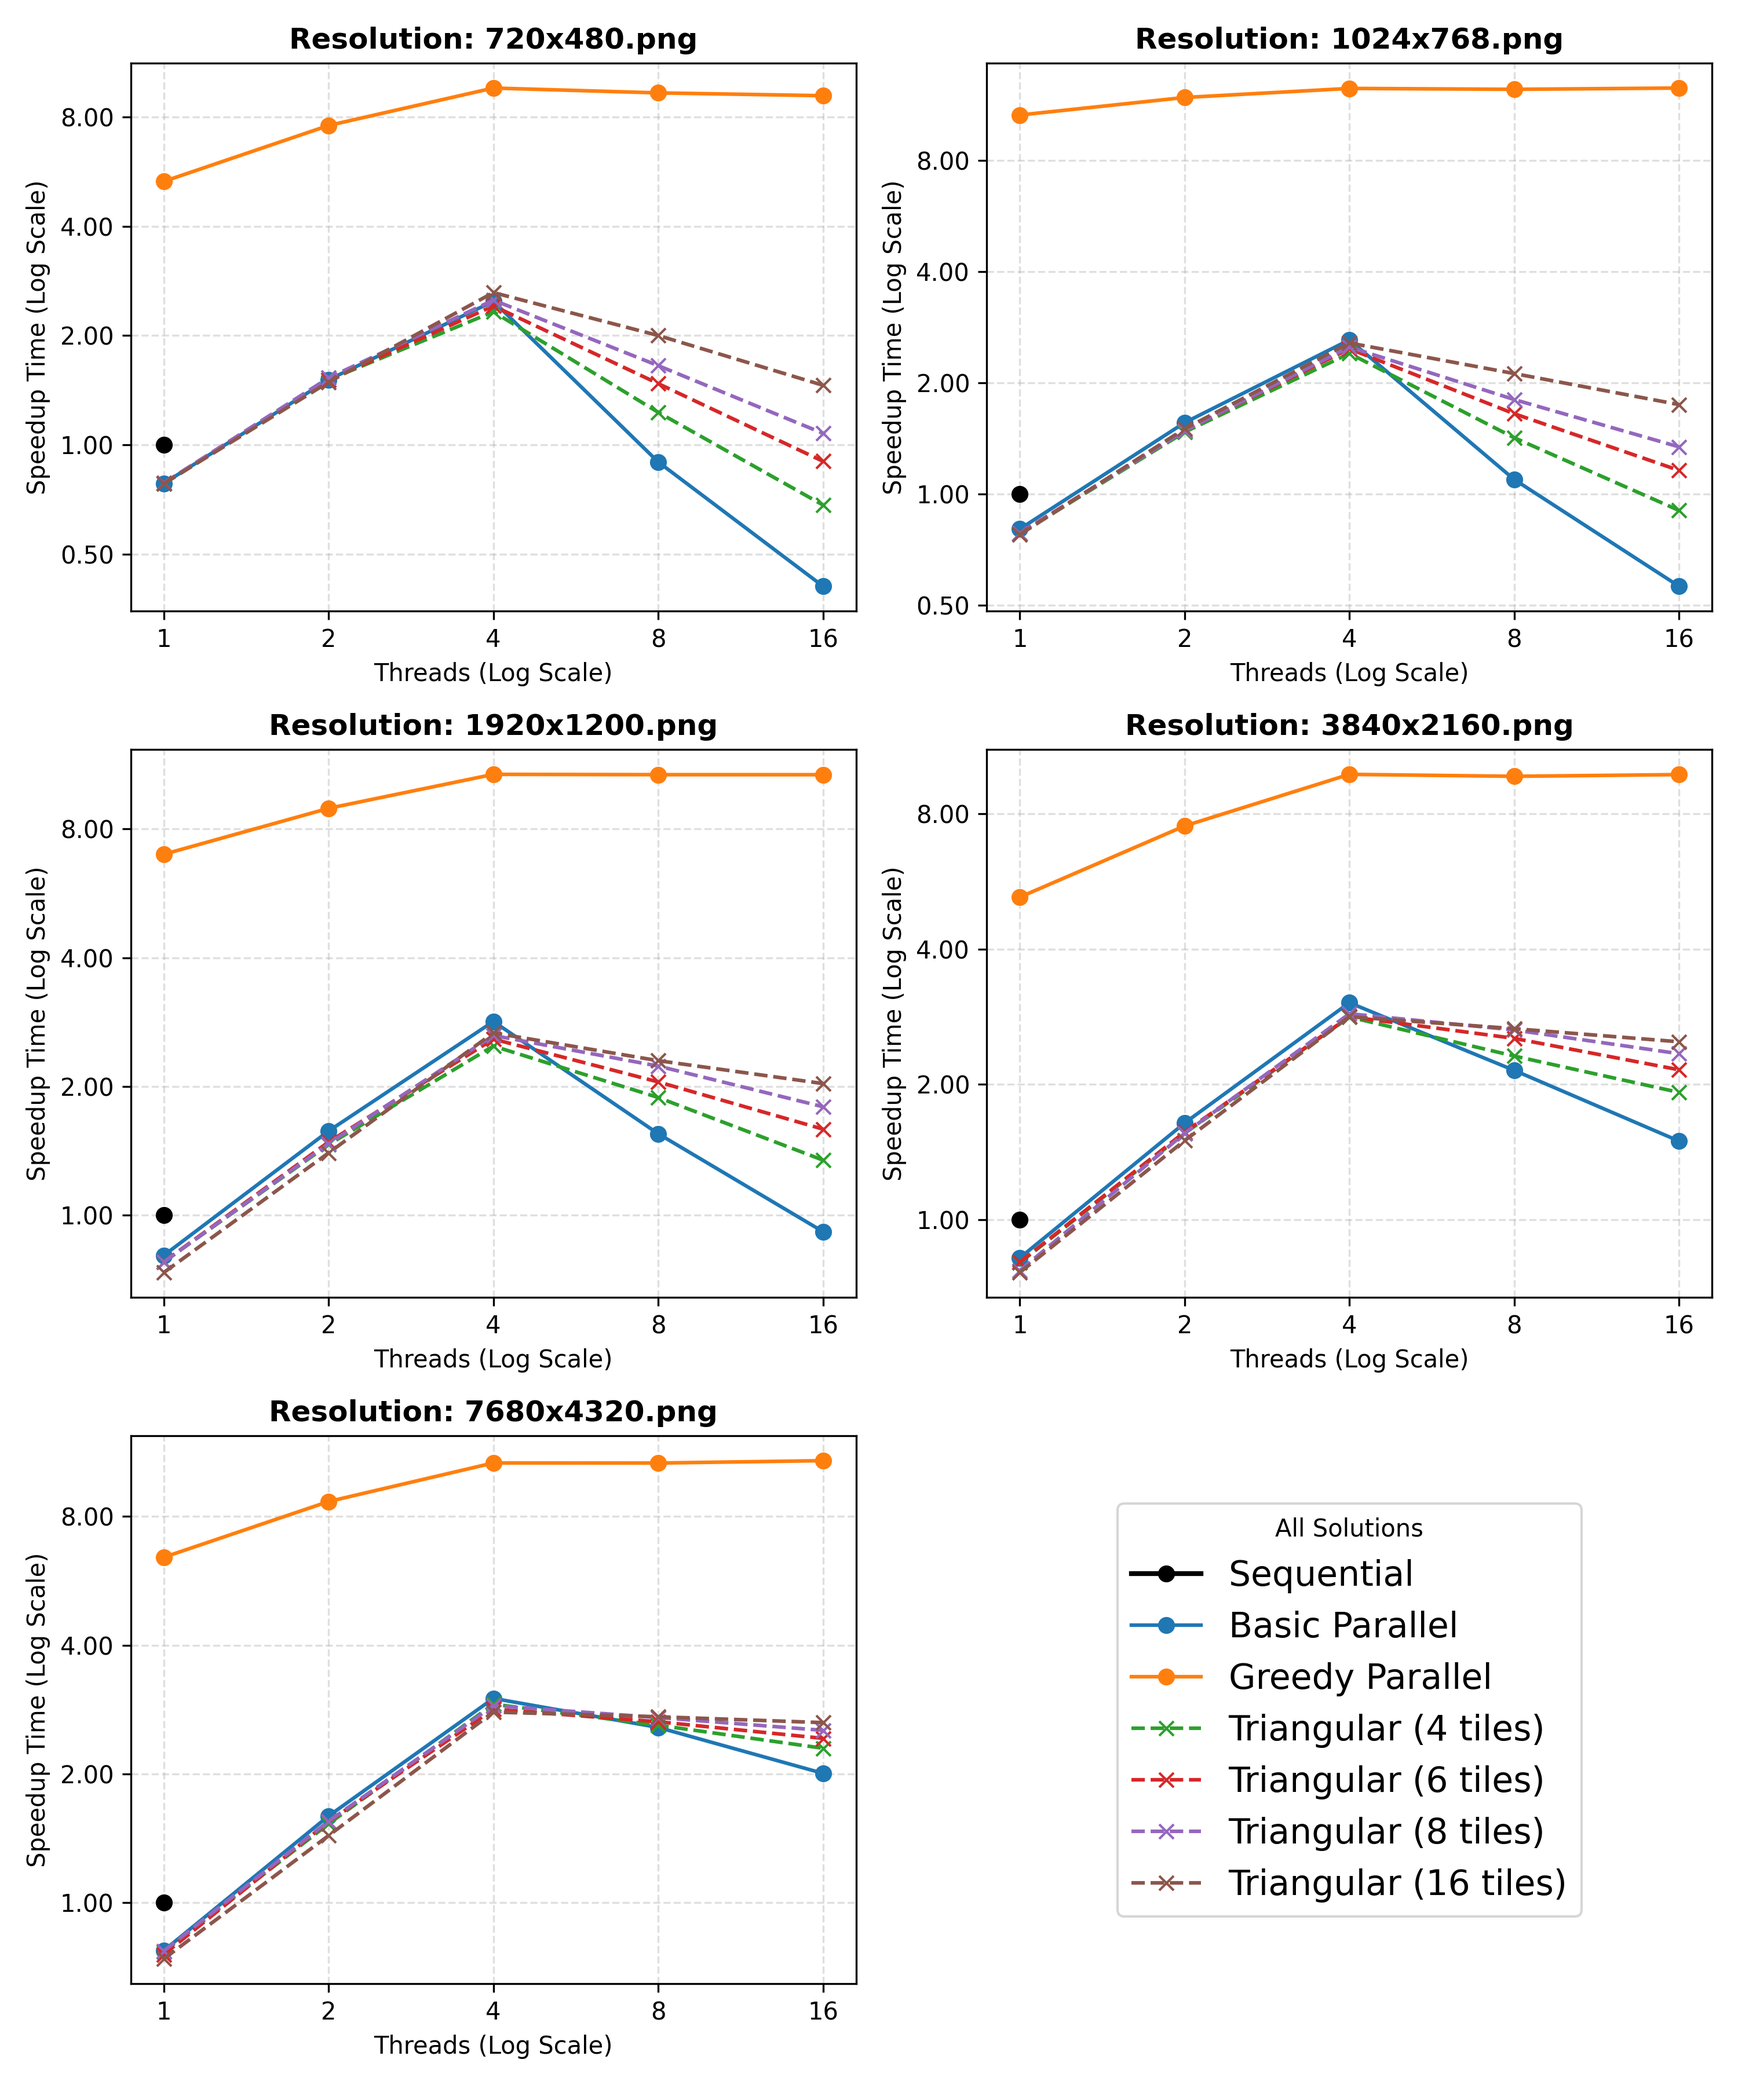
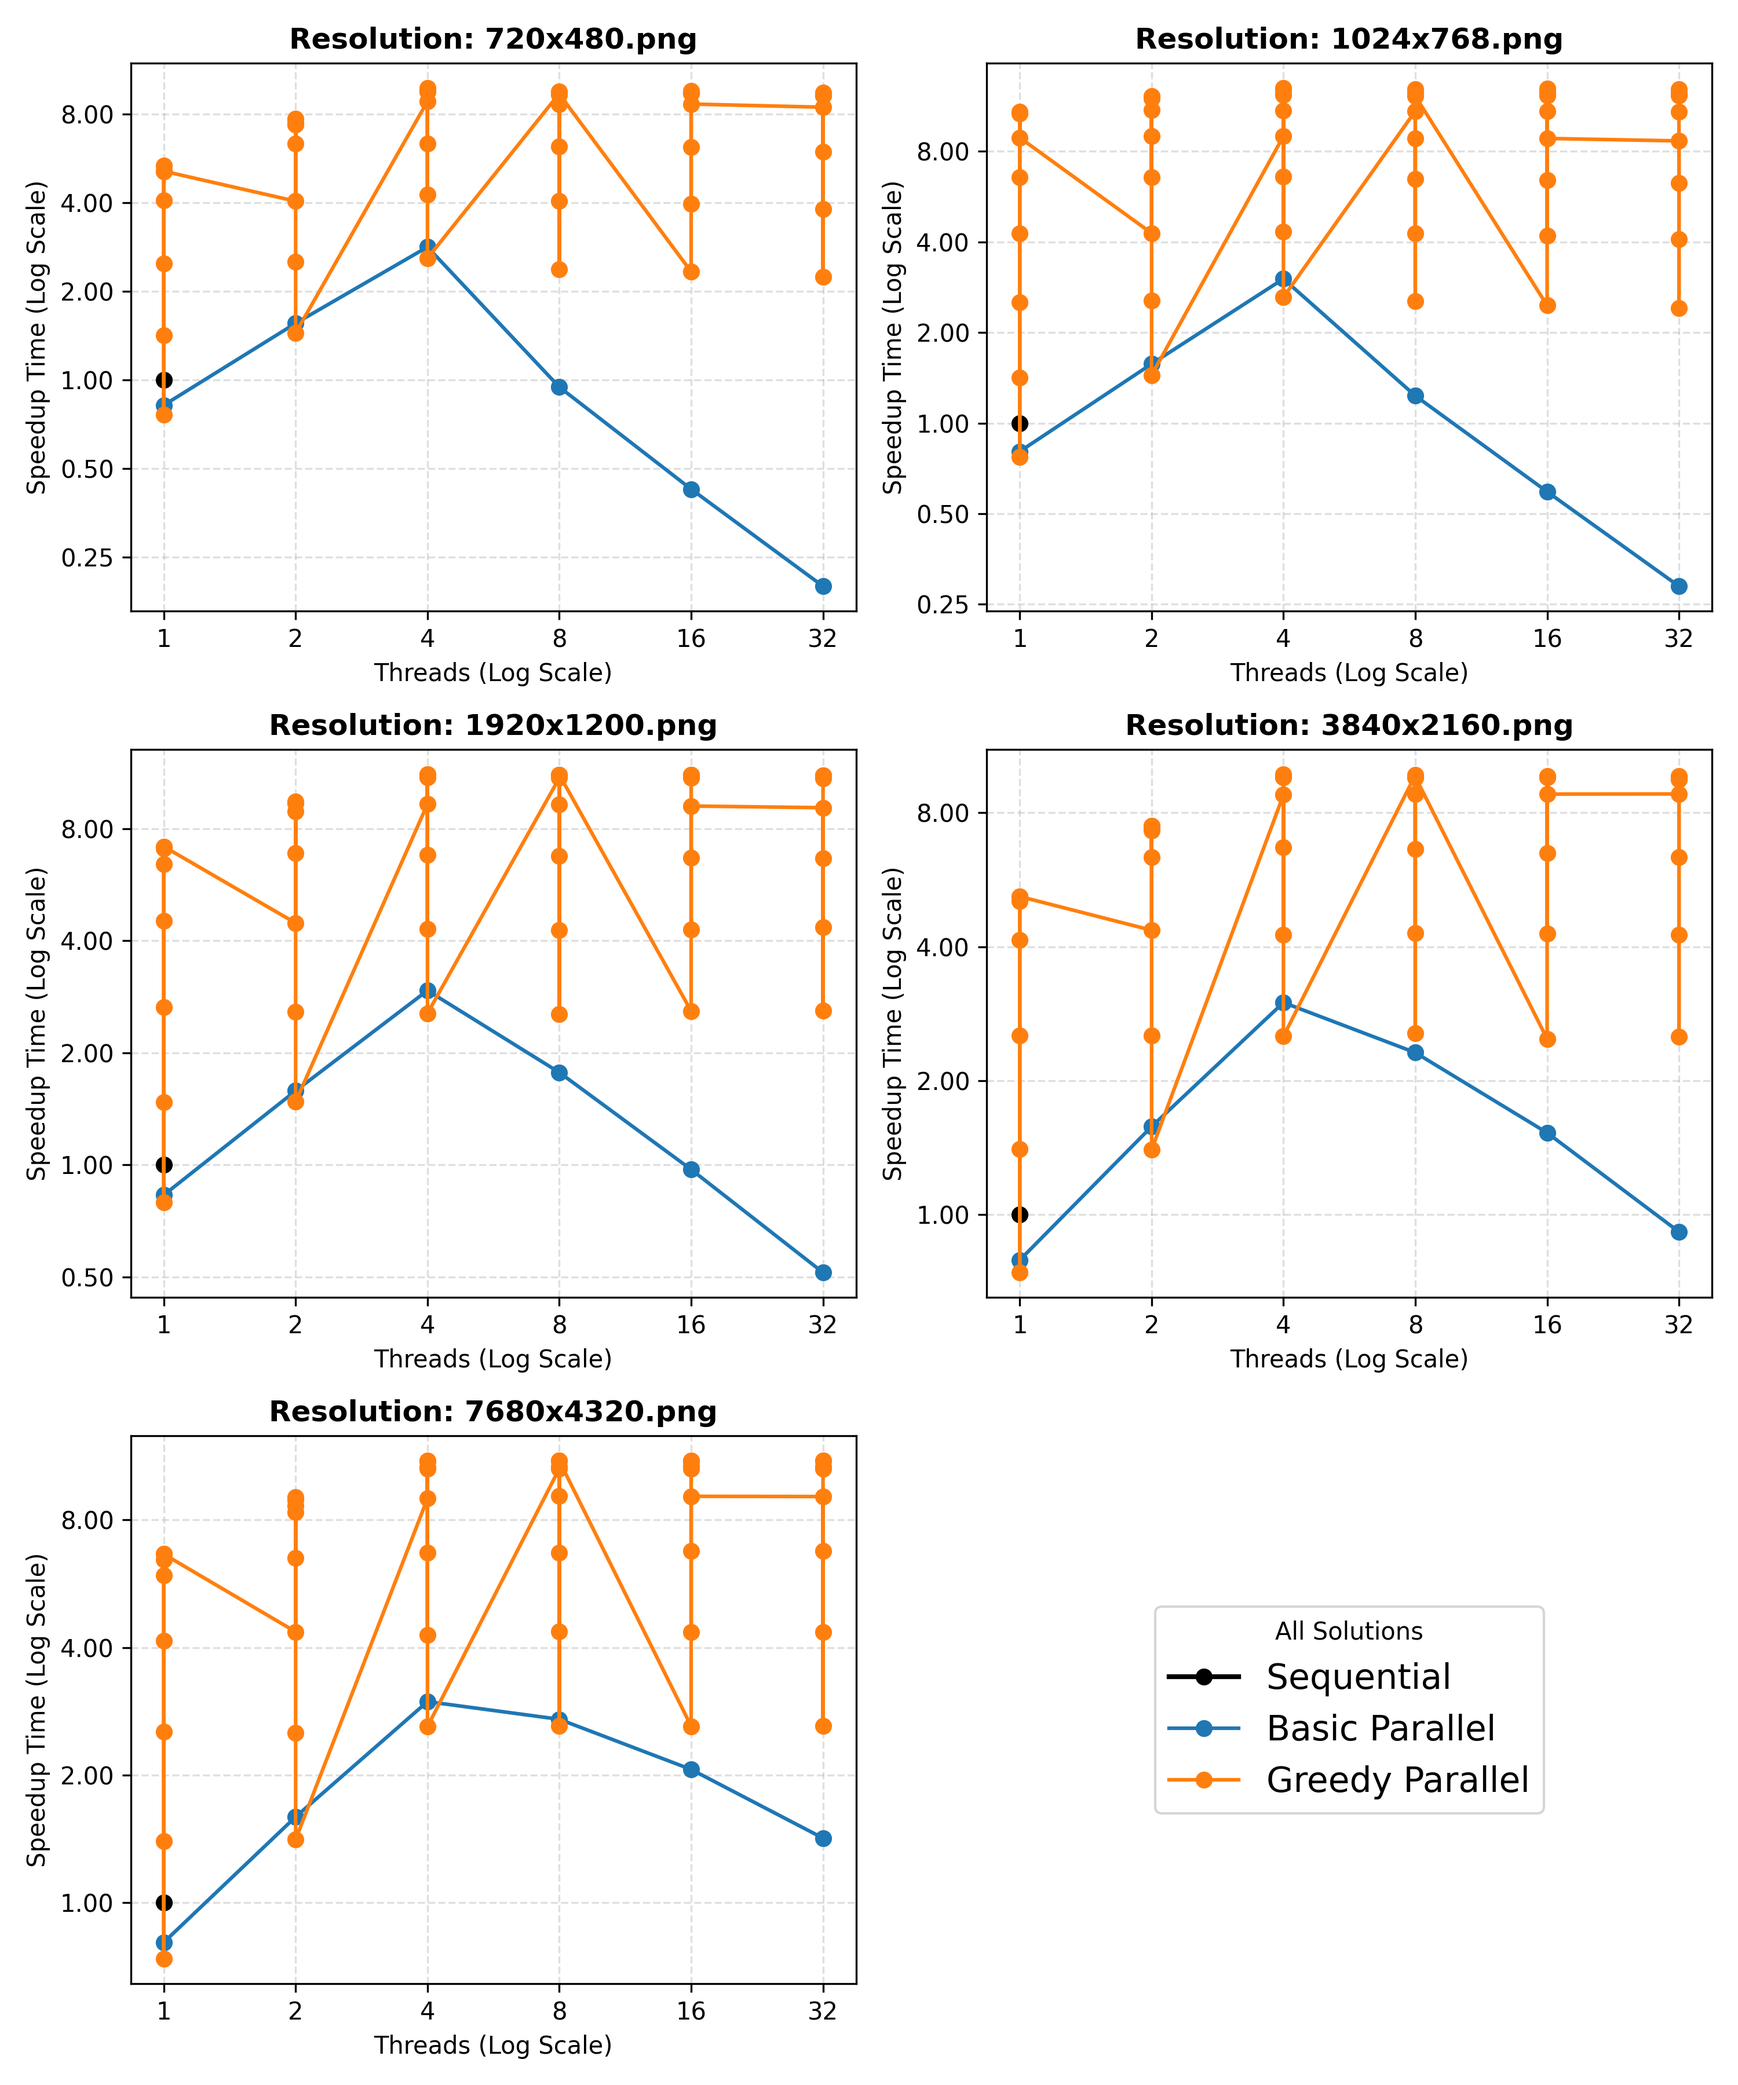
updates on repo

diff --git a/labs/02-Assignment1-OpenMP/src/report/images/processing_all_images.py b/labs/02-Assignment1-OpenMP/src/report/images/processing_all_images.py
@@ -3,16 +3,15 @@ import matplotlib.pyplot as plt
 
 # 1. Load the benchmark data
 # Adjust path as necessary (e.g., 'benchmark_results.csv')
-df = pd.read_csv('../data/benchmark_4threads.csv')
-
+df = pd.read_csv('../data/benchmark_4cores_new.csv')
 
 # 2. Get the unique images (Total of 5)
 images = df['image'].unique()
-n_images = len(images)
 
 # 3. Initialize a large figure with subplots (3 rows, 2 columns)
+# Increased height to accommodate a larger legend at the bottom
 fig, axes = plt.subplots(nrows=3, ncols=2, figsize=(10, 12))
-axes = axes.flatten()  # Flatten the 2D array of axes for easier iteration
+axes = axes.flatten()
 
 # To store handles and labels for the global legend
 handles, labels = [], []
@@ -21,58 +20,72 @@ for i, img in enumerate(images):
     ax = axes[i]
     img_data = df[df['image'] == img]
     
-    # --- Plotting the different solutions ---
-    
-    # Sequential (Baseline)
+    # --- Sequential (Baseline) ---
     seq_data = img_data[img_data['solution'] == 'sequential']
     if not seq_data.empty:
-        line, = ax.plot(seq_data['threads'], seq_data['speedup'], 'o-', label='Sequential', linewidth=2, color='black')
-        if i == 0: handles.append(line); labels.append('Sequential')
+        line, = ax.plot(seq_data['threads'], seq_data['speedup'], 'o-', label='Sequential', linewidth=2.5, color='black', zorder=10)
+        if i == 0 and 'Sequential' not in labels: handles.append(line); labels.append('Sequential')
     
-    # Basic Parallel
+    # --- Basic Parallel ---
     basic_data = img_data[img_data['solution'] == 'basic_parallel'].sort_values('threads')
     if not basic_data.empty:
-        line, = ax.plot(basic_data['threads'], basic_data['speedup'], 'o-', label='Basic Parallel')
-        if i == 0: handles.append(line); labels.append('Basic Parallel')
+        line, = ax.plot(basic_data['threads'], basic_data['speedup'], 'o-', label='Basic Parallel', alpha=0.6)
+        if i == 0 and 'Basic Parallel' not in labels: handles.append(line); labels.append('Basic Parallel')
         
-    # Greedy Parallel
-    greedy_data = img_data[img_data['solution'] == 'greedy_parallel'].sort_values('threads')
-    if not greedy_data.empty:
-        line, = ax.plot(greedy_data['threads'], greedy_data['speedup'], 'o-', label='Greedy Parallel')
-        if i == 0: handles.append(line); labels.append('Greedy Parallel')
-        
-    # Triangular Parallel (for all tile counts)
-    tri_data = img_data[img_data['solution'] == 'triangular_parallel']
-    unique_tiles = sorted(tri_data['height_tiles'].unique())
-    for tile in unique_tiles:
-        tile_data = tri_data[tri_data['height_tiles'] == tile].sort_values('threads')
-        line, = ax.plot(tile_data['threads'], tile_data['speedup'], 'x--', label=f'Triangular ({tile} tiles)')
-        if i == 0: handles.append(line); labels.append(f'Triangular ({tile} tiles)')
-        
+    # --- Greedy Parallel (Multiple lines for batch sizes / seams removed) ---
+    greedy_all = img_data[img_data['solution'] == 'greedy_parallel']
+    # Filter for valid batch sizes (> 0) and sort them
+    unique_batches = sorted([b for b in greedy_all['greedy_batch_size'].unique() if b > 0])
+    
+    for b in unique_batches:
+        batch_data = greedy_all[greedy_all['greedy_batch_size'] == b].sort_values('threads')
+        if not batch_data.empty:
+            # We use a distinct marker '+' and a different color/alpha for these lines
+            line, = ax.plot(batch_data['threads'], batch_data['speedup'], '+-', label=f'Greedy (batch {b})', alpha=0.8)
+            if i == 0:
+                lab = f'Greedy (batch {b})'
+                if lab not in labels: handles.append(line); labels.append(lab)
+            
+    # --- Triangular One Way (Original Triangle) ---
+    tri_one_data = img_data[img_data['solution'] == 'triangular_one_way_parallel']
+    unique_tiles_one = sorted([t for t in tri_one_data['height_tiles'].unique() if 1 <= t <= 32])
+    for tile in unique_tiles_one:
+        tile_data = tri_one_data[tri_one_data['height_tiles'] == tile].sort_values('threads')
+        line, = ax.plot(tile_data['threads'], tile_data['speedup'], 'x--', label=f'Tri One-Way ({tile} tiles)', alpha=0.7)
+        if i == 0:
+            lab = f'Tri One-Way ({tile} tiles)'
+            if lab not in labels: handles.append(line); labels.append(lab)
+
+    # --- Triangular Up-Down (Top-Bottom Parallel) ---
+    tri_tb_data = img_data[img_data['solution'] == 'top_bottom_parallel']
+    unique_tiles_tb = sorted([t for t in tri_tb_data['height_tiles'].unique() if 1 <= t <= 32])
+    for tile in unique_tiles_tb:
+        tile_data = tri_tb_data[tri_tb_data['height_tiles'] == tile].sort_values('threads')
+        line, = ax.plot(tile_data['threads'], tile_data['speedup'], 'd:', label=f'Tri Up-Down ({tile} tiles)', alpha=0.7)
+        if i == 0:
+            lab = f'Tri Up-Down ({tile} tiles)'
+            if lab not in labels: handles.append(line); labels.append(lab)
+            
     # --- Formatting each subplot ---
     ax.set_title(f'Resolution: {img}', fontsize=12, fontweight='bold')
-    ax.set_xlabel('Threads (Log Scale)', fontsize=10)
-    ax.set_ylabel('Speedup Time (Log Scale)', fontsize=10)
+    ax.set_xlabel('Threads (log scale)', fontsize=10)
+    ax.set_ylabel('Speedup (log scale)', fontsize=10)
     
-    # Apply Log Scale (Base 2) to both axes
     ax.set_xscale('log', base=2)
     ax.set_yscale('log', base=2)
 
-    # Set explicit ticks to match the thread counts in the dataset
     thread_ticks = sorted(img_data['threads'].unique())
     ax.set_xticks(thread_ticks)
-    # Ensure ticks show as integers (1, 2, 4...) rather than scientific notation
     ax.get_xaxis().set_major_formatter(plt.ScalarFormatter()) 
     ax.get_yaxis().set_major_formatter(plt.ScalarFormatter()) 
     
     ax.grid(True, which="both", linestyle='--', alpha=0.4)
 
-# 4. Handle the 6th subplot (index 5) - Use it for the Legend
+# 4. Handle the 6th subplot - Use it for the Legend
 legend_ax = axes[5]
-legend_ax.axis('off') # Hide the axis lines and labels
-legend_ax.legend(handles, labels, loc='center', fontsize='x-large', frameon=True, title="All Solutions")
+legend_ax.axis('off')
+legend_ax.legend(handles, labels, loc='center', fontsize='large', frameon=True, title="All Solutions", ncol=2)
 
 # 5. Finalize layout and save
 plt.tight_layout()
-plt.savefig('image_performance_for_fixed_cores', dpi=300)
-#plt.show()
+plt.savefig('performance_comprehensive_greedy.png', dpi=300)
